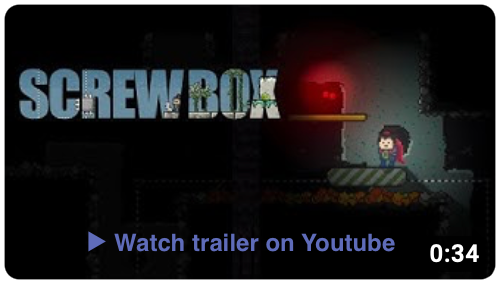
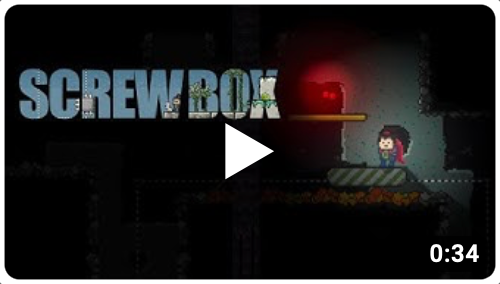
readme overhaul

Changed region(s): [[0.15, 0.8169, 0.81, 0.9014], [0.45, 0.4225, 0.54, 0.6479], [0.99, 0.9859, 1.0, 1.0]]

diff --git a/README.md b/README.md
@@ -12,7 +12,8 @@ Minimalist 2d Java game engine. Result of covid lockdown.
 ScrewBox is a personal pet project since february 2021. I use it to learn about Java and have some fun. Maybe you have a
 look if you want to have some fun with Java and 2d graphics.
 
-<p align="center"><a href="https://www.youtube.com/watch?v=fg5MJDx78SQ)"><img alt="youtube trailer" src="docs/trailer-thumbnail.png"></a></p>
+<p align="center"><a href="https://www.youtube.com/watch?v=fg5MJDx78SQ)"><img width="50%"  alt="youtube trailer" src="docs/trailer-thumbnail.png"></a>
+<br/><b><a href="https://www.youtube.com/watch?v=fg5MJDx78SQ)">▶ Watch trailer on Youtube</a></b></p>
 
 ## Features
 
